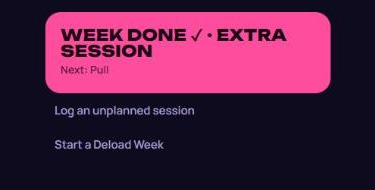
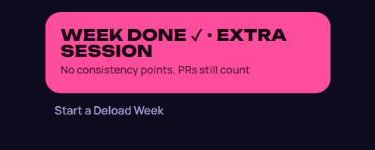
Extra Session: replace the Next-Day hint with a points hint and hide the redundant unplanned link

Changed region(s): [[0.1173, 0.0533, 0.88, 0.4], [0.1173, 0.4267, 0.9093, 0.64], [0.1467, 0.6933, 0.44, 0.8]]

diff --git a/app/src/SessionScreen.tsx b/app/src/SessionScreen.tsx
@@ -102,7 +102,6 @@ export function StartSession({ logging, training }: { logging: ReturnType<typeof
   const extra = useRef<HTMLDialogElement>(null);
   // With the Weekly Target met, a new Session is an extra one: it never moves the Routine's next
   // Day, so it starts unplanned, after the lifter confirms.
-  const startExtra = () => (met && !inProgress ? extra.current?.showModal() : logging.start());
   // With no Routine, Start asks first, unless the lifter said they don't follow one. Read when
   // tapped, so a choice that just arrived from the server counts.
   const start = async () => {
@@ -190,10 +189,10 @@ export function StartSession({ logging, training }: { logging: ReturnType<typeof
       </Sheet>
       <button type="button" className="btn-start" onClick={start}>
         <span className="disp">{inProgress ? s.resume : met ? s.startExtra : s.start}</span>
-        <small>{inProgress ? s.logged(inProgress.sets.length) : next ? s.startNext(next.name) : s.startHint}</small>
+        <small>{inProgress ? s.logged(inProgress.sets.length) : met ? s.extraHint : next ? s.startNext(next.name) : s.startHint}</small>
       </button>
-      {next && !inProgress && (
-        <button type="button" className="btn-link" onClick={startExtra}>
+      {next && !met && !inProgress && (
+        <button type="button" className="btn-link" onClick={() => logging.start()}>
           {s.startUnplanned}
         </button>
       )}

diff --git a/app/src/i18n.ts b/app/src/i18n.ts
@@ -229,6 +229,7 @@ type Messages = {
     extraText: string;
     extraConfirm: string;
     extraCancel: string;
+    extraHint: string;
     // The sheet shown when starting a Session with no Routine.
     noRoutineTitle: string;
     noRoutineText: string;
@@ -629,6 +630,7 @@ const en: Messages = {
     extraText: "You've hit your weekly target. An extra session earns no consistency points, but personal records still count. Log it anyway?",
     extraConfirm: 'Log it anyway',
     extraCancel: 'Cancel',
+    extraHint: 'No consistency points, PRs still count',
     noRoutineTitle: 'No routine logged yet',
     noRoutineText: 'Log your routine so we can recommend weights and track your progress.',
     noRoutineSetUp: 'Set up my routine',
@@ -1030,6 +1032,7 @@ const es: Messages = {
     extraText: 'Ya cumpliste tu objetivo semanal. Una sesión extra no suma puntos de constancia, pero los PR siguen contando. ¿La registrás igual?',
     extraConfirm: 'Registrarla igual',
     extraCancel: 'Cancelar',
+    extraHint: 'No suma constancia, los PR sí',
     noRoutineTitle: 'Todavía no cargaste tu rutina',
     noRoutineText: 'Cargá tu rutina para que te recomendemos pesos y sigamos tu progreso.',
     noRoutineSetUp: 'Armar mi rutina',
